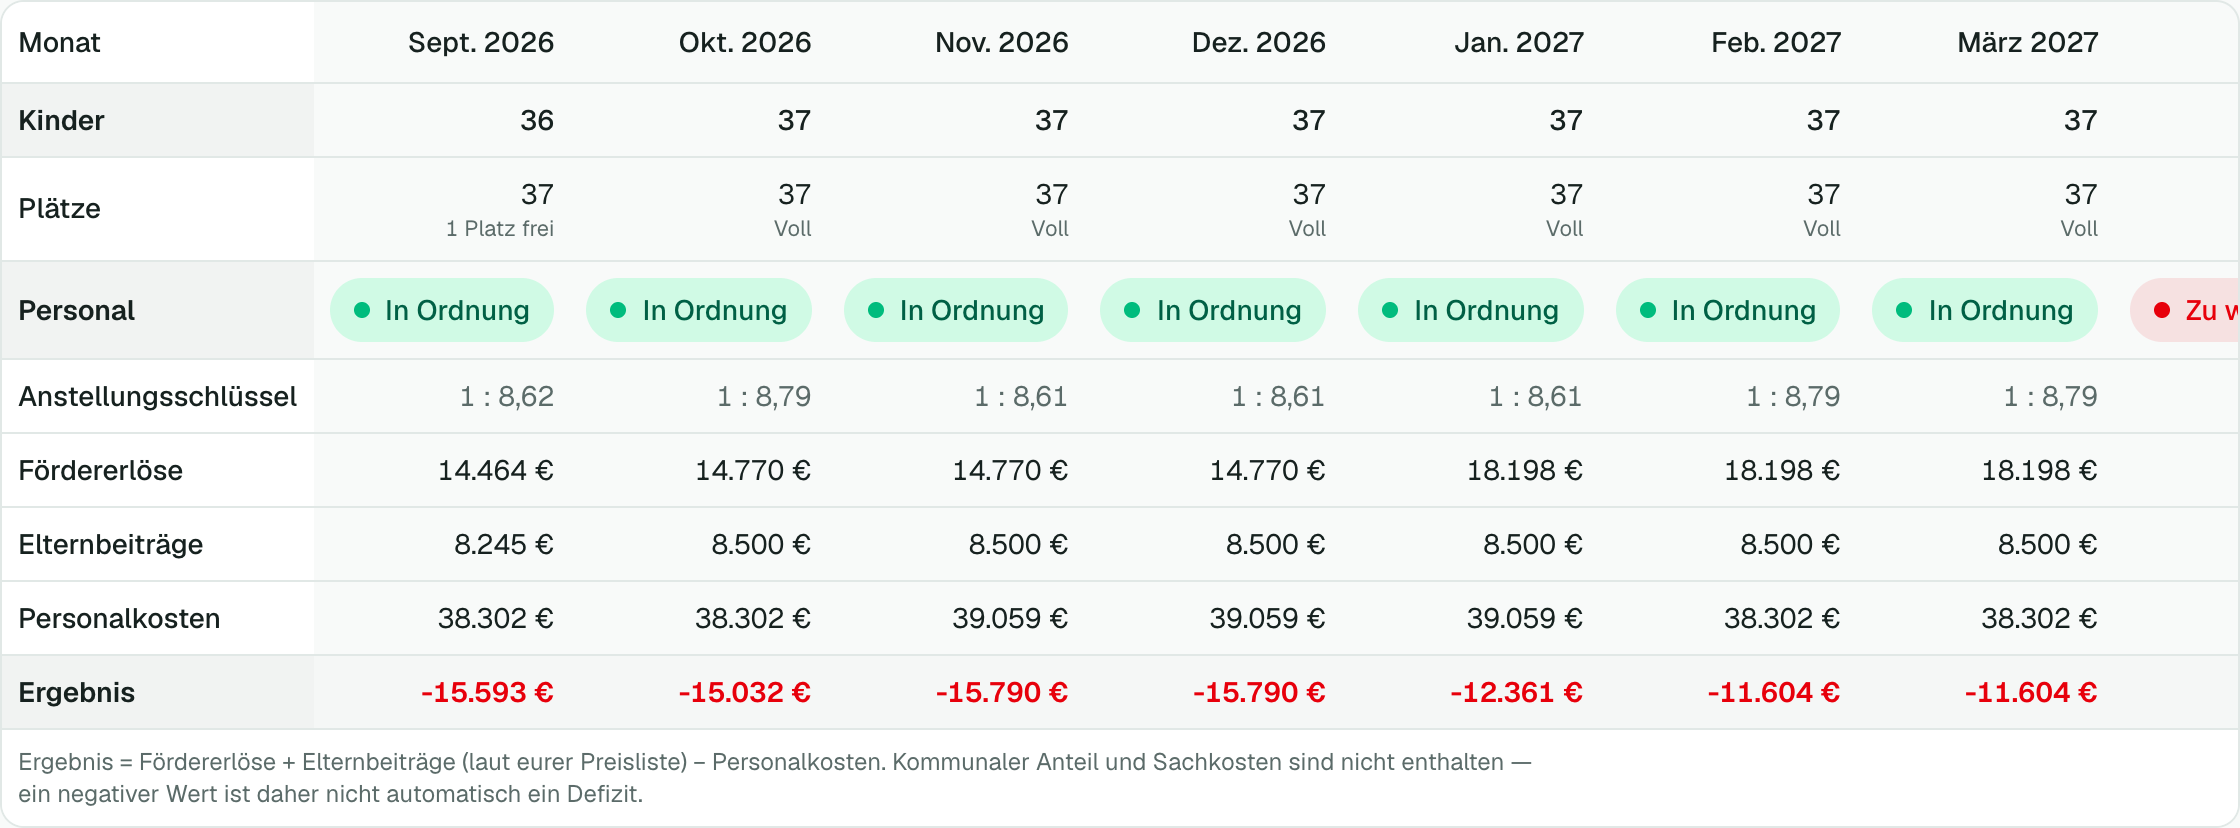
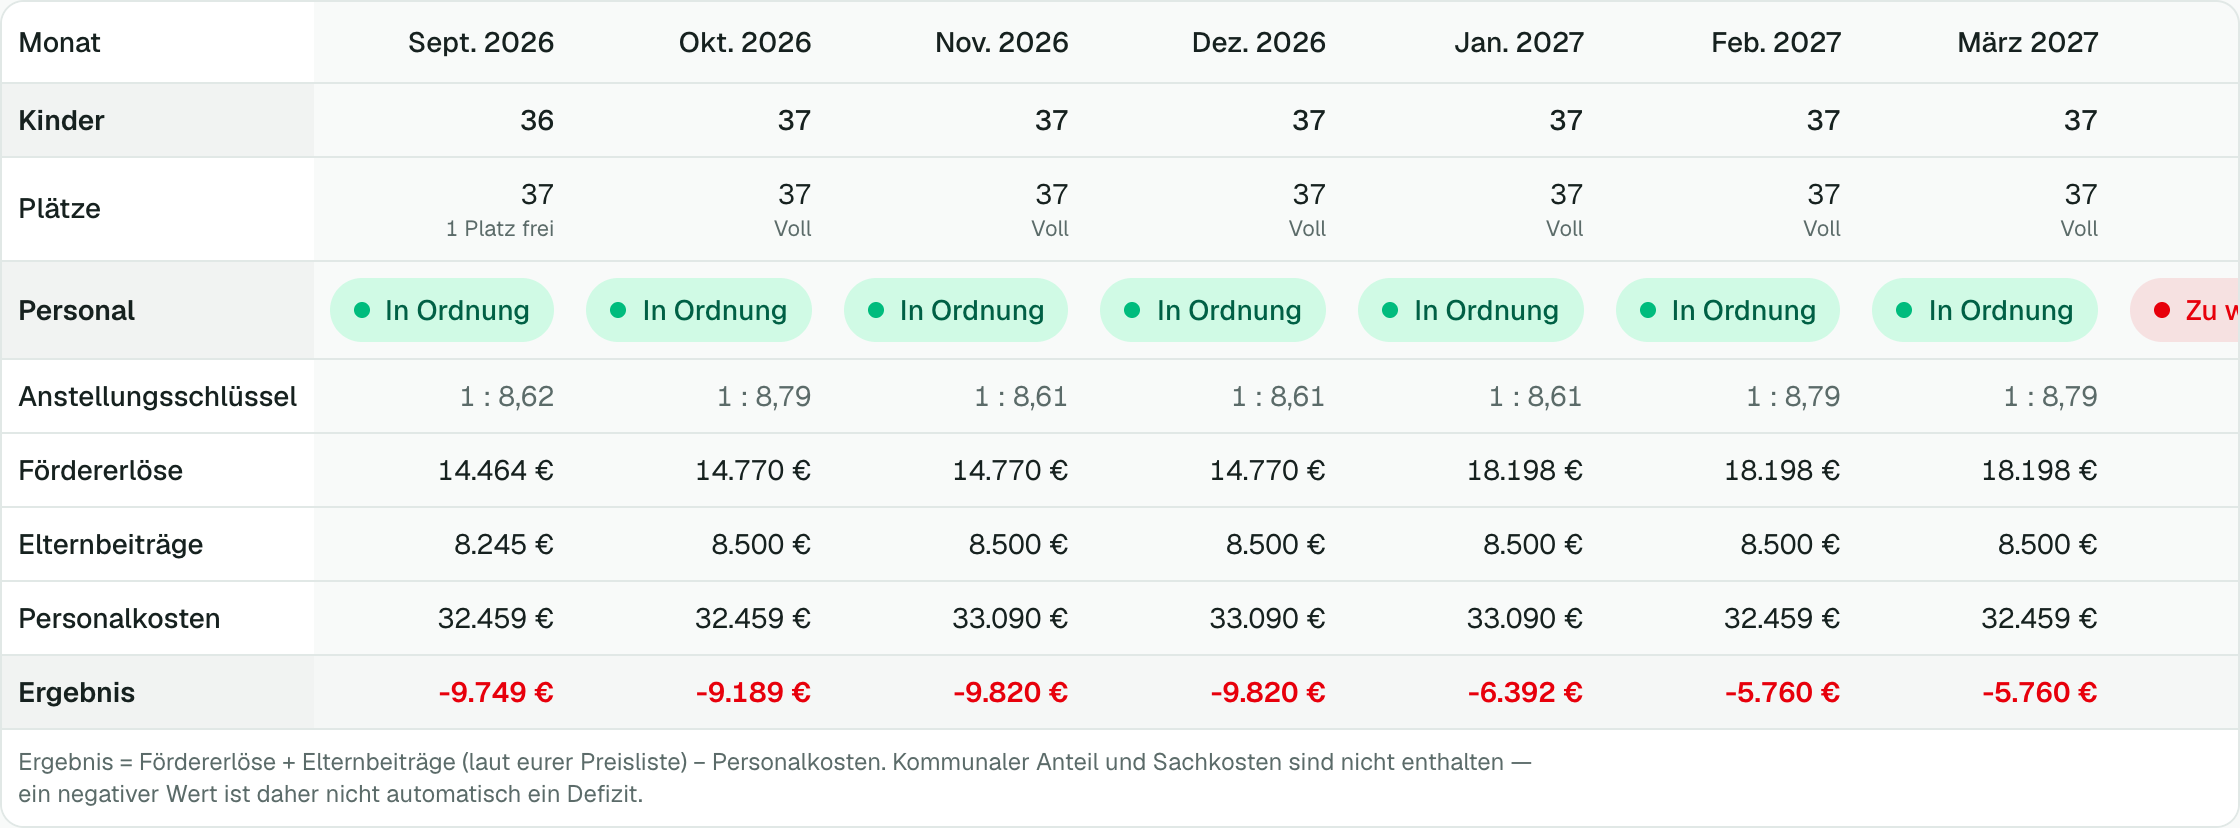
Quellenprüfung: TVöD-SuE-Tabelle korrigiert (war 1,2-fach), NRW-Personalstunden gegen Anlage zu § 33 KiBiz bestätigt

diff --git a/app/(app)/einstellungen/rechtsgrundlagen/page.tsx b/app/(app)/einstellungen/rechtsgrundlagen/page.tsx
@@ -647,14 +647,16 @@ export default async function DokumentationPage() {
             Wichtiger Hinweis zur Quellenlage
           </h3>
           <p className="text-sm text-muted-foreground">
-            Die Stunden-Tabelle stammt aus Fachquellen (Kitazentrale),
-            nicht direkt aus der Primär-PDF der Anlage zu § 33 KiBiz — die
-            Textextraktion aus dem offiziellen PDF ist an eingebetteten
-            Schriftarten gescheitert. Vor einer echten Kunden-Einrichtung in
-            NRW sollte die Tabelle mit dem Original abgeglichen werden. Die
-            Leitungsfreistellung (+5/+7/+9 Std.) wurde hier einheitlich auf
-            alle drei Gruppenformen angewendet, da unklar blieb, für welche
-            Gruppenform(en) genau sie in welcher Höhe gilt. Eine
+            Die Stunden-Tabelle wurde im Oktober 2026 gegen die Anlage zu § 33 Absatz 1
+            KiBiz in der amtlichen Fassung (recht.nrw.de) geprüft: Mindestanzahl
+            Fachkraftstunden 55,0 / 77,0 / 99,0 je Gruppe in den Gruppenformen I und II,
+            27,5 / 38,5 / 49,5 in Gruppenform III (dort zusätzlich Ergänzungskraftstunden in
+            gleicher Höhe, § 36 Abs. 4), Leitungsstunden je Gruppe 5 / 7 / 9 in allen drei
+            Gruppenformen. Die Kindpauschalen der Anlage sind Werte von 2020; Bellegio rechnet
+            mit den fortgeschriebenen Beträgen des jeweiligen Kindergartenjahres (einheitliche
+            Fortschreibungsrate nach § 37 KiBiz), die aus den Mitteilungen der Jugendämter stammen
+            und sich zur Anlage durchgehend um denselben Faktor unterscheiden. Die Jahresbeträge
+            selbst sind nicht gegen den Erlass des Ministeriums geprüft. Eine
             KiBiz-Reform wurde am 16.07.2026 verabschiedet und tritt für die
             Buchungszeiten/Personalstunden erst zu Beginn des Kitajahres
             2027/2028 (Sommer 2027) in Kraft — bis dahin gilt die oben
@@ -848,9 +850,10 @@ export default async function DokumentationPage() {
             Wichtiger Hinweis zur Quellenlage
           </h3>
           <p className="text-sm text-muted-foreground">
-            Die hinterlegte TVöD-SuE-Tabelle (Entgeltgruppen S3–S18, Stufen 1–6, Stand 01.05.2026) stammt aus einer
-            Sekundärquelle (öffentlicher-dienst.info) und wurde nicht direkt gegen die primäre VKA/dbb-Entgelttabelle
-            geprüft — vor Produktivbetrieb einmal gegenchecken. TVöD ist außerdem kein Universal-Tarif: kirchliche
+            Die hinterlegte TVöD-SuE-Tabelle (Entgeltgruppen S 2 bis S 18 ohne S 5, S 6 und S 10, Stufen 1–6, gültig ab
+            01.05.2026) wurde im Oktober 2026 gegen die amtliche VKA-Entgelttabelle geprüft (Quelle: Entgelttabellen 2026
+            der Stadt Böblingen, Stichprobe S 8a zusätzlich gegen eine zweite Veröffentlichung). Werte vor dem 01.05.2026
+            sind nicht hinterlegt. TVöD ist außerdem kein Universal-Tarif: kirchliche
             Träger (Caritas/Diakonie) zahlen meist nach AVR, private Träger frei — für diese Fälle das manuelle
             Monatsgehalt je Mitarbeiter nutzen statt Entgeltgruppe/Stufe.
           </p>

diff --git a/lib/constants.ts b/lib/constants.ts
@@ -41,9 +41,9 @@ export const TEAM_ROLLE_OPTIONS = [
   "Sonstige",
 ] as const;
 
-/** TVöD-SuE-Entgeltgruppen, Kita-relevante Teilmenge (Milestone 29c, siehe tvoed_sue_entgelt). */
+/** TVöD-SuE-Entgeltgruppen laut amtlicher VKA-Tabelle (siehe tvoed_sue_entgelt; S 5, S 6 und S 10 gibt es dort nicht). */
 export const TVOED_SUE_ENTGELTGRUPPEN = [
-  "S3", "S4", "S8a", "S8b", "S9", "S11a", "S11b", "S13", "S15", "S16", "S17", "S18",
+  "S2", "S3", "S4", "S7", "S8a", "S8b", "S9", "S11a", "S11b", "S12", "S13", "S14", "S15", "S16", "S17", "S18",
 ] as const;
 
 export const TEAM_STATUS_LABEL: Record<string, string> = {
